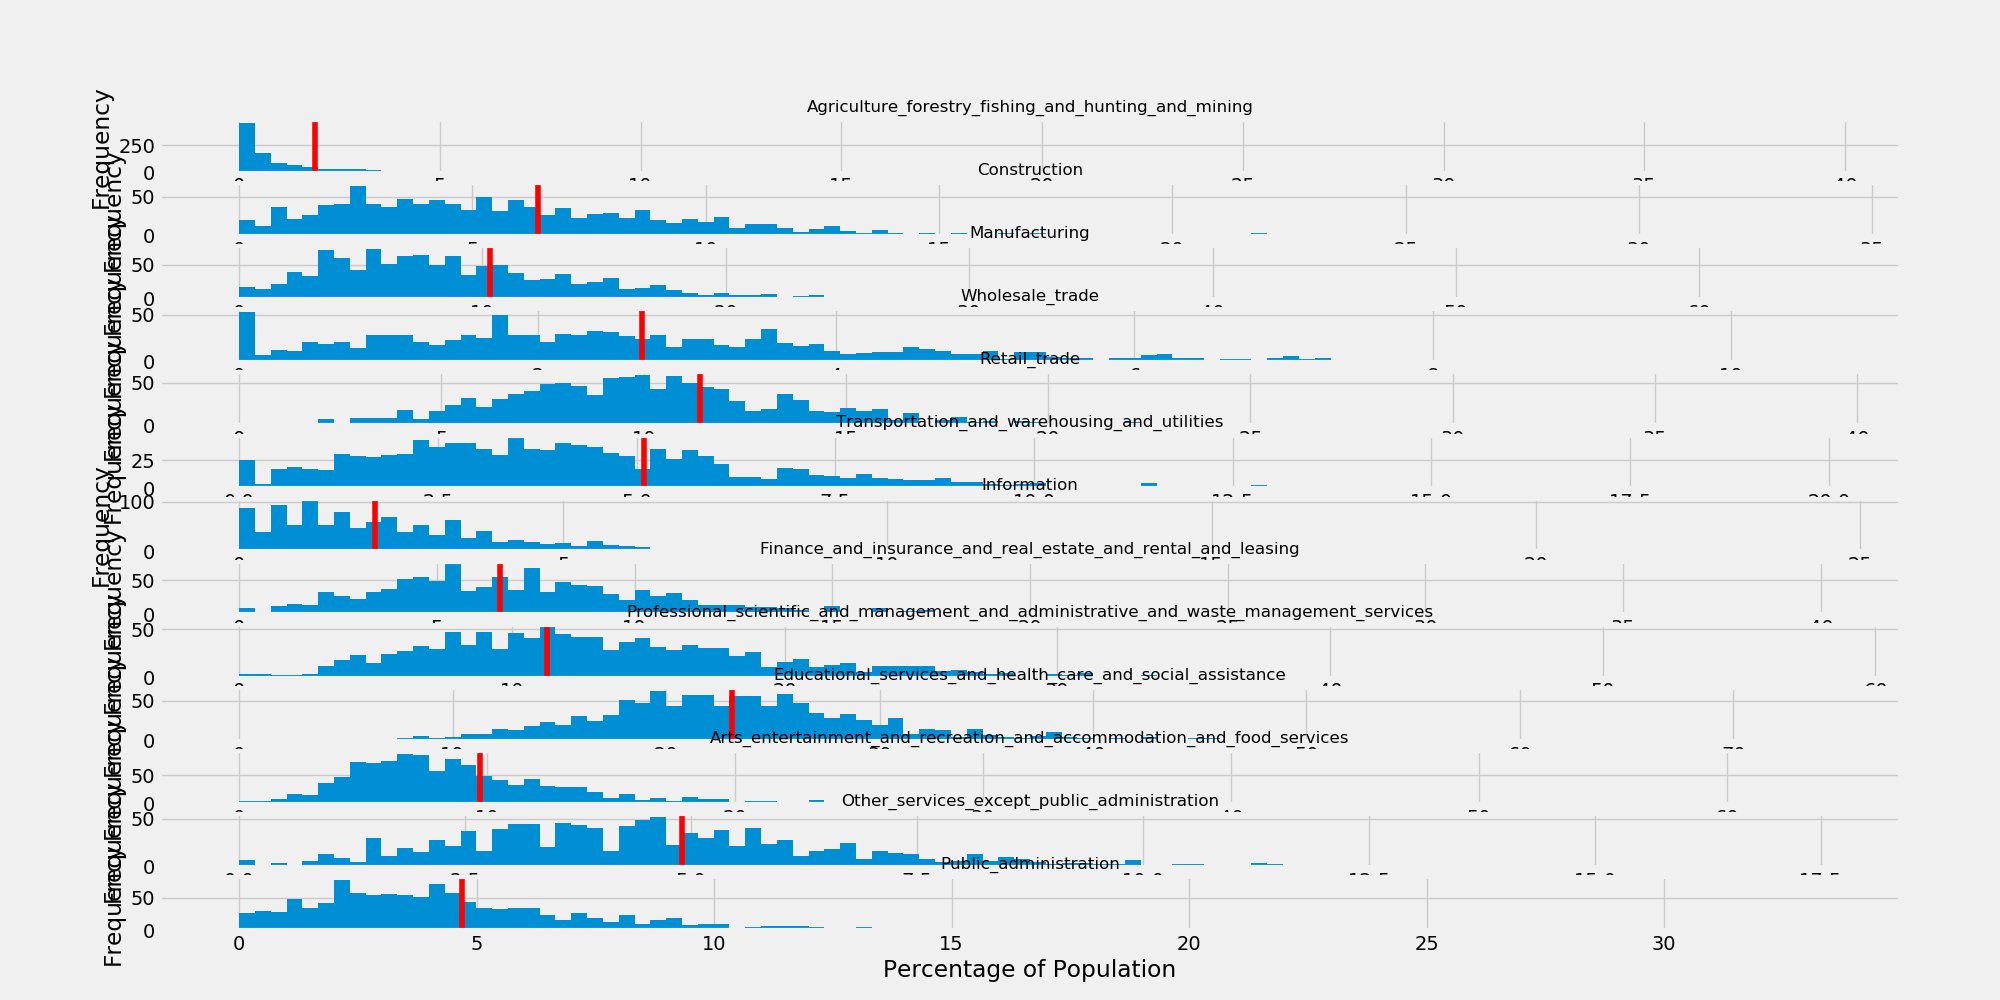
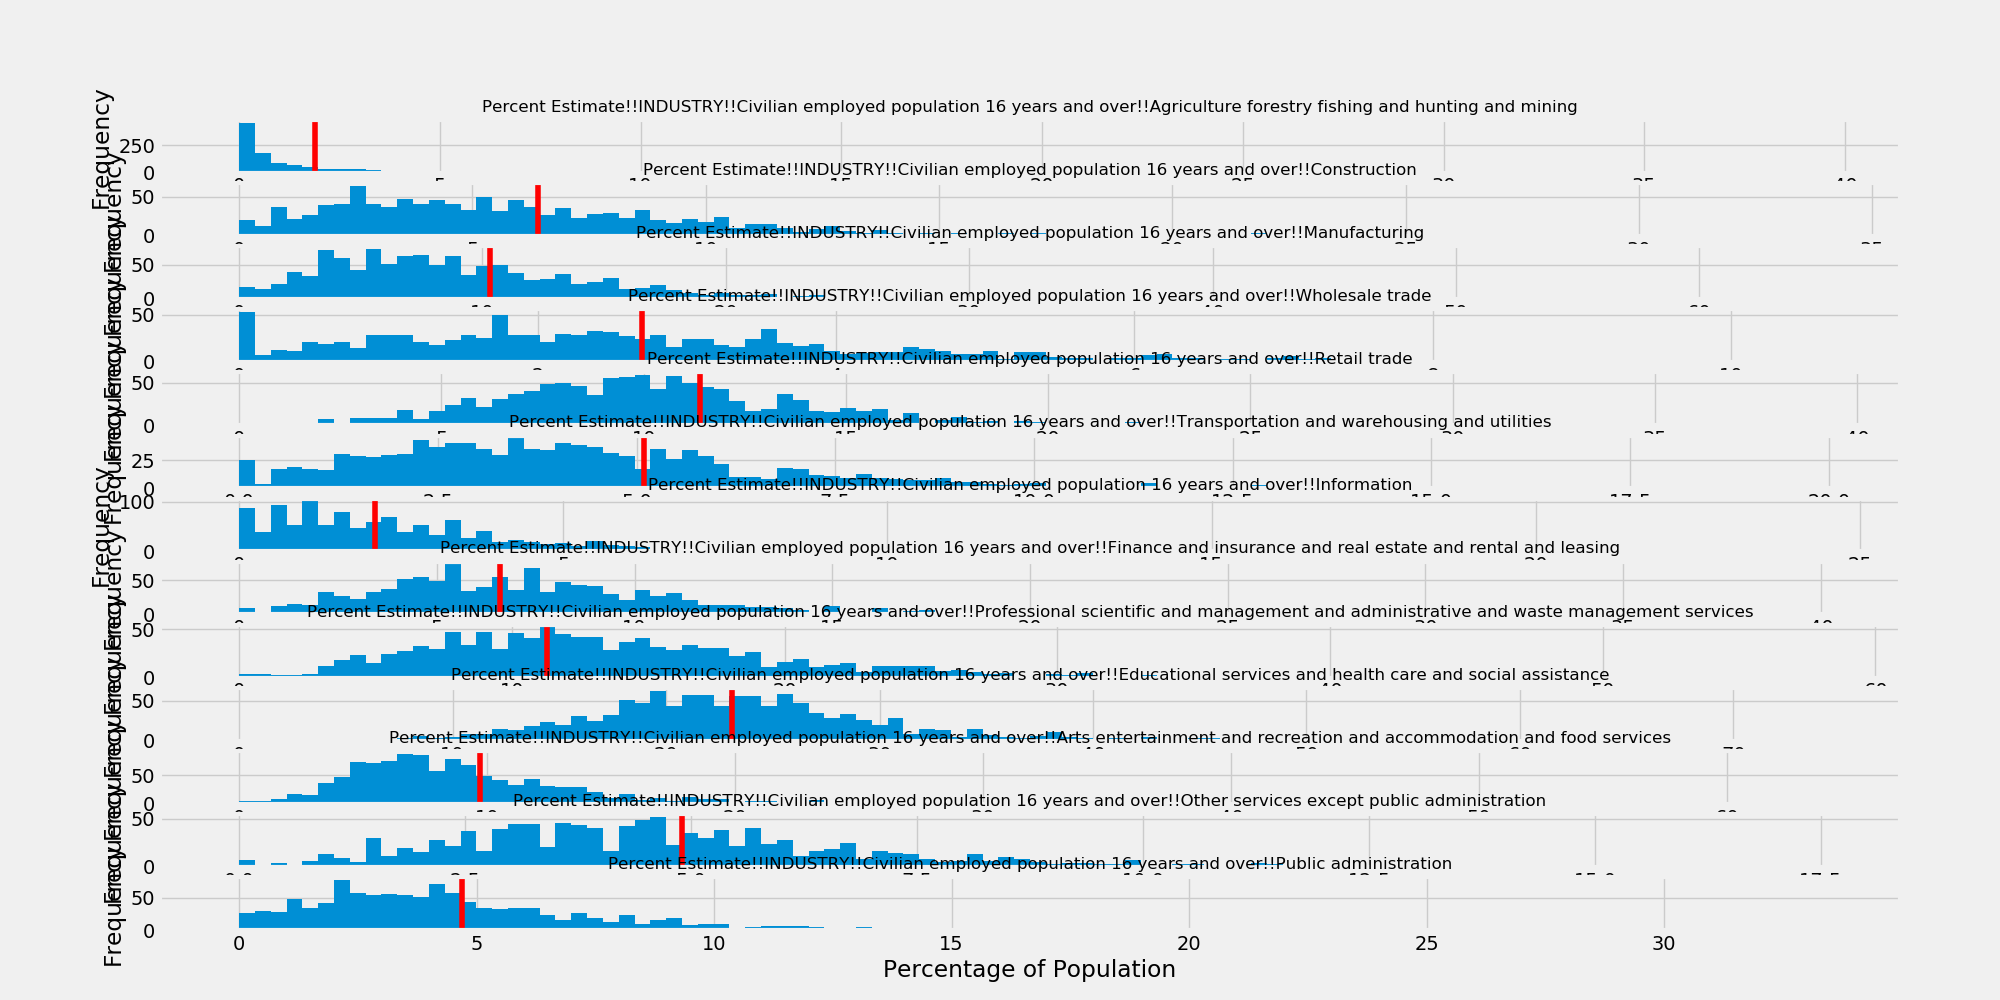
geo variables

diff --git a/visualizatons.py b/visualizatons.py
@@ -7,6 +7,7 @@ import requests
 import ast
 import random
 from scipy import stats
+import seaborn as sns
 
 plt.style.use('fivethirtyeight')
 
@@ -50,7 +51,7 @@ def clean_columns(frame, cluster, index):
             frame : dataframe with renamed columns 
         
         '''
-    frame = frame.rename(columns={cluster[i-8][1]: cluster[i-8][1].split('!!')[index].replace(' ', '_') for i in range(8, 8+len(cluster))})
+    frame = frame.rename(columns={cluster[i-8][1]: cluster[i-8][1].split('!!')[index] for i in range(8, 8+len(cluster))})
     return frame
 
 
@@ -76,8 +77,9 @@ class Grapher(object):
 
     '''
     
-    def __init__(self, hypo_test, data, cluster, fname, fig_rows, fig_cols, size_x, size_y):
+    def __init__(self, hypo_test, graph_type, data, cluster, fname, fig_rows, fig_cols, size_x, size_y):
         self.hypo_test = hypo_test
+        self.graph_type = graph_type
         self.data = data
         self.cluster = cluster
         self.fname = fname
@@ -156,22 +158,34 @@ class Grapher(object):
             plt.show()
         else:
             national_mean = self._national_means()
-            print(national_mean)
-            for i in range(0, len(self.data.columns)):
-                self._plot_hist(fig.add_subplot(self.fig_rows, self.fig_cols, i+1), self.data.iloc[:, i], self.data.columns[i], national_mean[i])
-            plt.savefig(self.fname)
-            plt.show()
+            # print(national_mean)
+            if self.graph_type == 'hist':
+                for i in range(0, len(self.data.columns)):
+                    if graph_type == 'hist':
+                        self._plot_hist(fig.add_subplot(self.fig_rows, self.fig_cols, i+1), self.data.iloc[:, i], self.data.columns[i], national_mean[i])
+                plt.savefig(self.fname)
+                plt.show()
+            elif self.graph_type == 'box':
+                self._plot_box()
+                plt.tight_layout()
+                plt.savefig(self.fname)
+                plt.show()
 
 
     def _plot_hist(self, ax, column, name, national):
         ## no Nan values
-        print(column)
+        # print(column)
         new_column = column[~np.isnan(column)]
         ax.hist(new_column, bins=100)
         ax.axvline(national, color='red')
         ax.set_title(name, fontsize = 12)
         ax.set_ylabel('Frequency')
         ax.set_xlabel('Percentage of Population')
+    
+    def _plot_box(self):
+        bplot = sns.boxplot(data=self.data, orient="h", width=0.5, palette="colorblind")
+        return bplot
+    
 
     def _plot_hypo_test(self, ax, null_sample):
         '''
@@ -267,9 +281,10 @@ if __name__ == '__main__':
     race_data = clean_data(race_data)
 
     health_data = clean_columns(health_data, health, 3)
-    # industry_data = clean_columns(industry_data, industry, 3)
+    industry_data = clean_columns(industry_data, industry, 3)
     commute_data = clean_columns(commute_data, commute, 3)
-    
+    income_data = clean_columns(income_data, income_benefits, 3)
+
     vet_data = clean_columns(vet_data, vet_status, 3)
     internet_data = clean_columns(internet_data, internet, 3)
     age_data = clean_columns(age_data, age, 3)
@@ -280,10 +295,15 @@ if __name__ == '__main__':
     
 
     ## Graph
-    # graph_obj = Grapher(False, industry_data.iloc[:, 9:], industry, 'mesa_viz/industry.png', 13, 1, 20, 10)
+    # graph_obj = Grapher(False, 'box', age_data.iloc[:, 9:], age, 'ohaver_viz/age_box.png', 1, 1, 20, 10)
     # graph = graph_obj.plot_cluster()
 
-
+    fig, bplot = plt.subplots(figsize=(15, 10))
+    bplot = sns.boxplot(data=income_data.iloc[:, 9:], orient="h", width=0.5, palette="colorblind")
+    bplot.axvline(x = 10, ymin = 1, ymax = 2)
+    # plt.setp(bplot.get_xticklabels(), rotation=45)
+    plt.tight_layout()
+    plt.show()
     
 
 

diff --git a/src/census_variables.py b/src/census_variables.py
@@ -21,7 +21,7 @@ def parse_table_to_data(table):
     return np.array(data)
 
 
-def filter_subset_data(census_vars, subset):
+def filter_subset_data(geography, census_vars, subset):
     """
     Input:
         census_var_names (np array): a multi-dimensional array of all census variables
@@ -29,8 +29,12 @@ def filter_subset_data(census_vars, subset):
     Output:
         subset_vars : a multi-dimensional array representing census variables of a subset
     """
-    subset_vars = census_vars[census_vars[:,2] == subset]
-    return subset_vars
+    if geography:
+        subset_vars = census_vars[census_vars[:,1] == subset]
+        return subset_vars[:,:2]
+    else:
+        subset_vars = census_vars[census_vars[:,2] == subset]
+        return subset_vars
 
 def filter_percentages(census_vars):
     """
@@ -47,13 +51,13 @@ def filter_percentages(census_vars):
     return np.array(result)
 
 def var_names_to_file(var_names, file_name):
-     """
-    Input:
-        var_names (np array): a multi-dimensional array of census variables
-        file_name (str): name of the file to be exported
+    #  """
+    # Input:
+    #     var_names (np array): a multi-dimensional array of census variables
+    #     file_name (str): name of the file to be exported
         
-    Output: (None)
-    """
+    # Output: (None)
+    # """
     pd.DataFrame(var_names).to_csv(file_name, header=False, index=False)
 
 if __name__ == '__main__':
@@ -64,8 +68,7 @@ if __name__ == '__main__':
     table = soup.find('table')
     census_var_names = parse_table_to_data(table)[:, 0:3]
 
-    subset = 'ACS DEMOGRAPHIC AND HOUSING ESTIMATES'
-    demographic_vars = filter_subset_data(census_var_names, subset)
-    demographic_percent_vars = filter_percentages(demographic_vars)
-
+    subset = 'Geography'
+    geographic_vars = filter_subset_data(True, census_var_names, subset)
+    var_names_to_file(geographic_vars, 'geo_var_names.csv')
     
